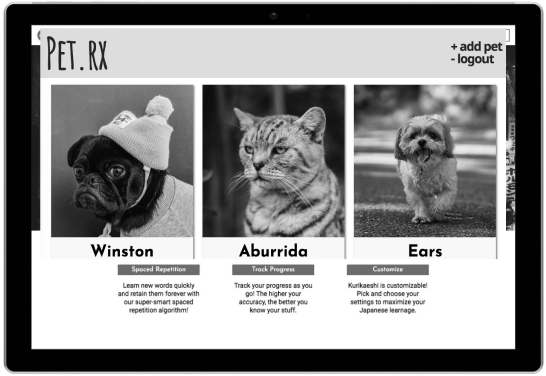
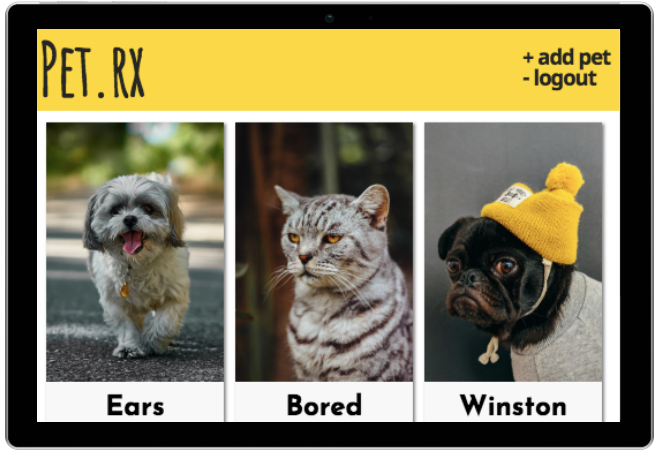
greyscale photos and links added

diff --git a/index.html b/index.html
@@ -46,29 +46,35 @@
         <div class="text-div">
         <p class="app-text">A USER-FRIENDLY AND FULLY- RESPONSIVE WEB APPLICATION THAT ALLOWS USERS TO TAKE CONTROL OF THEIR PET’S HEALTH CARE RECORDS AND TRACK HEALTH METRICS ACROSS TIME.</p>
         <p class="built-text">BUILT USING MONGODB, NODE+EXPRESS, REACT+REDUX, ENZYME+JEST.</p>
-        <p class="app-links">LIVE SITE// REPO//</p>
+        <p class="app-links"><a href="https://cellphone4et.github.io/crowd-control/" class="app-link-a-href">LIVE SITE  </a> </p>
+        <p class="app-links">|</p>
+        <p class="app-links"><a href="https://github.com/cellphone4ET/pet-rx" class="app-link-a-href">REPO </a></p>
         </div>
       </div>
       <div class="about-line-div"></div>
       <h1>FAMILY. MASH</h1>
       <div class="info-div">
-        <img src="device-shot.png" alt="screen shot of pet.rx app" class="device-shot">
+        <!-- <img src="device-shot.png" alt="screen shot of pet.rx app" class="device-shot"> -->
         <div class="text-div">
           <p class="app-text">BORN OUT OF THIS DEVELOPER’S HABITUAL TENDANCY TO FORGET BIRTHDAYS AND ANNIVERSARIES. FAMILY.MASH ALLOWS USERS TO INPUT THEIR LOVED ONE’S BIRTHDAYS AND ANNIVERSARIES  AND WHEN THE BIG DAY(S) ARRIVE FAMILY.MASH SENDS OUT AUTOMATED  EMAIL REMINDERS TO GIVE THEM A HAPPY BIRTHDAY/ANNIVERSARY
     CALL.</p>
           <p class="built-text">BUILT USING MONGODB, NODE+EXPRESS, MOCHA+CHAI, JQUERY, AJAX.</p>
-        <p class="app-links">LIVE SITE// REPO//</p>
+          <p class="app-links"><a href="https://cellphone4et.github.io/crowd-control/" class="app-link-a-href">LIVE SITE  </a> </p>
+          <p class="app-links">|</p>
+          <p class="app-links"><a href="https://github.com/cellphone4ET/family-mash" class="app-link-a-href">REPO </a></p>
         </div>
       </div>
       <div class="about-line-div"></div>
       <h1>CROWD CONTROL</h1>
       <div class="info-div">
-        <img src="device-shot.png" alt="screen shot of pet.rx app" class="device-shot">
+        <img src="device-shot-2.png" alt="screen shot of pet.rx app" class="device-shot">
         <div class="text-div">
         <p class="app-text">BORN OUT OF THIS DEVELOPER’S HABITUAL TENDANCY TO FORGET BIRTHDAYS AND ANNIVERSARIES. FAMILY.MASH ALLOWS USERS TO INPUT THEIR LOVED ONE’S BIRTHDAYS AND ANNIVERSARIES  AND WHEN THE BIG DAY(S) ARRIVE FAMILY.MASH SENDS OUT AUTOMATED  EMAIL REMINDERS TO GIVE THEM A HAPPY BIRTHDAY/ANNIVERSARY
   CALL.</p>
         <p class="built-text">BUILT USING MONGODB, NODE+EXPRESS, MOCHA+CHAI, JQUERY, AJAX.</p>
-        <p class="app-links">LIVE SITE// REPO//</p>
+        <p class="app-links"><a href="https://cellphone4et.github.io/crowd-control/" class="app-link-a-href">LIVE SITE  </a> </p>
+        <p class="app-links">|</p>
+        <p class="app-links"><a href="https://github.com/cellphone4ET/crowd-control" class="app-link-a-href">REPO </a></p>
         </div>
       </div>
 

diff --git a/index.css b/index.css
@@ -96,6 +96,14 @@ header {
   object-fit: contain;
   width: 100%;
   margin-right: 40px;
+  -webkit-filter: grayscale(100%); /* Safari 6.0 - 9.0 */
+  filter: grayscale(100%);
+}
+
+.device-shot:hover {
+  cursor: crosshair;
+  -webkit-filter: none; /* Safari 6.0 - 9.0 */
+  filter: none;
 }
 
 .device-shot:last-child {
@@ -124,7 +132,16 @@ header {
 }
 
 .app-links {
+  display: inline-block;
   margin-top: 10px;
+  color: blue;
+}
+
+.app-links:hover {
+  text-decoration: line-through;
+}
+
+.app-link-a-href {
   color: blue;
 }
 
